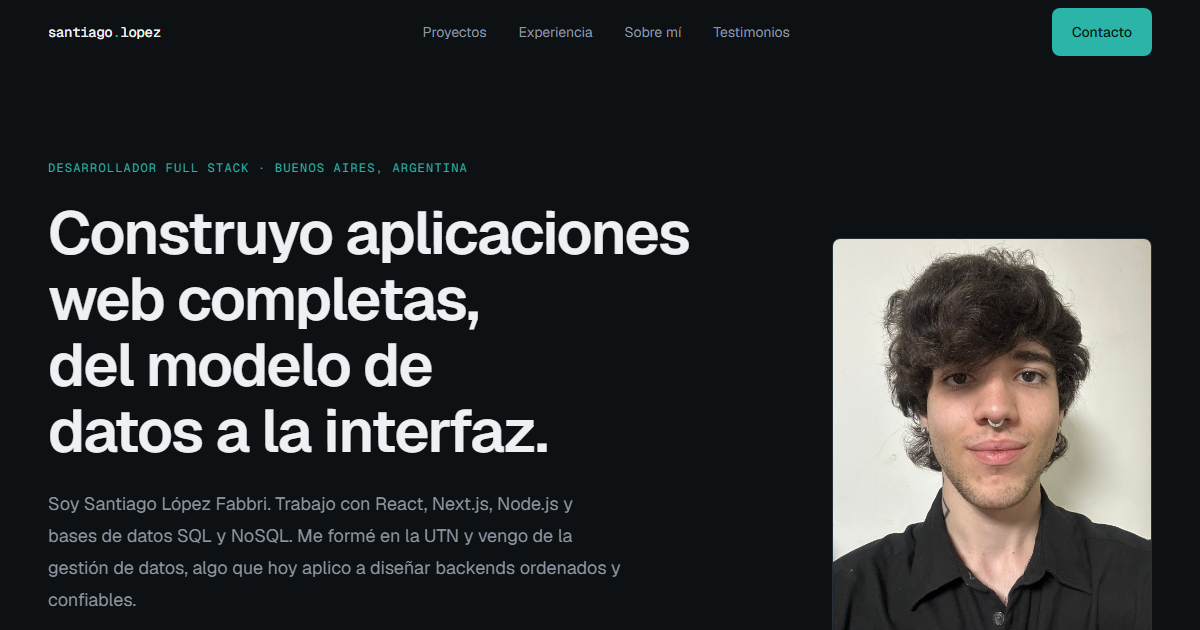
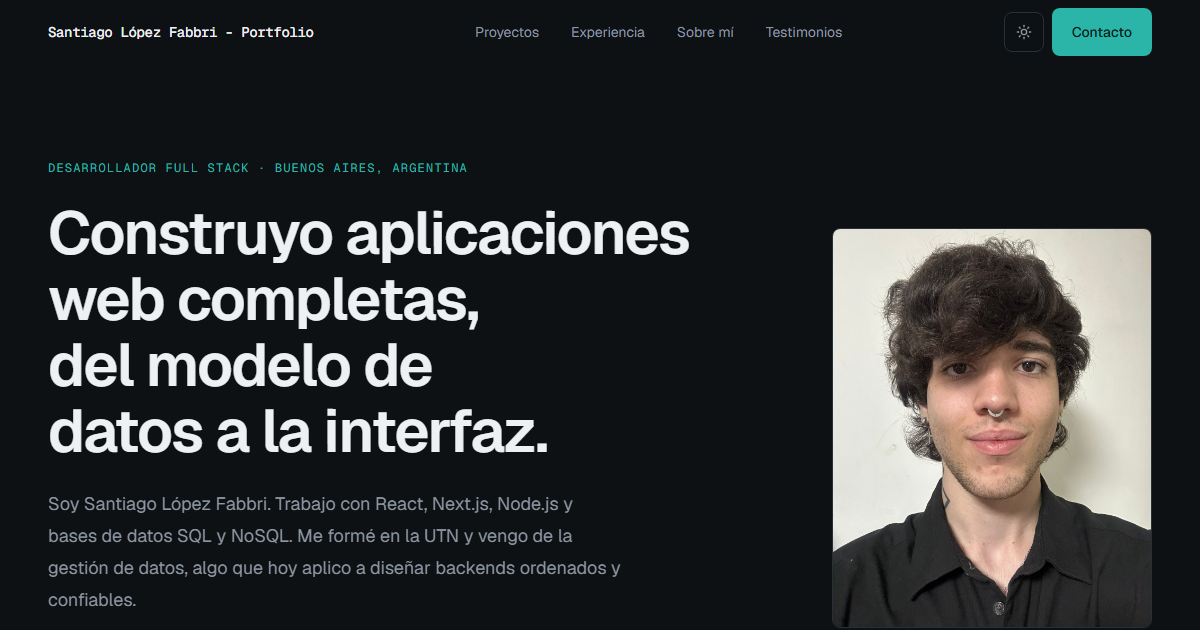
Proyectos con overlay, modo claro/oscuro, Hide y más textos decodificados
- Overlay en la imagen de cada proyecto con Ver sitio y Código (hover en desktop, toque en mobile)
- Modo claro/oscuro con transición circular desde el botón; respeta la preferencia del sistema
- Nuevo proyecto: Hide (Expo + Supabase), marcado como repo privado
- Decodificación en períodos, categorías del stack y etiquetas de contacto
- Capturas nuevas de Popcorn y Portfolio; imagen OG actualizada

diff --git a/src/sections/Proyectos.jsx b/src/sections/Proyectos.jsx
@@ -1,5 +1,7 @@
-import { ArrowUpRight, Github } from "lucide-react";
+import { ArrowUpRight, Github, Lock } from "lucide-react";
 import { useState } from "react";
+import { Button } from "@/components/Button";
+import { Decode } from "@/components/Decode";
 import { Reveal } from "@/components/Reveal";
 import { Section } from "@/components/Section";
 import { Tag } from "@/components/Tag";
@@ -12,8 +14,13 @@ const track = (e) => {
   e.currentTarget.style.setProperty("--y", `${e.clientY - r.top}px`);
 };
 
+const ext = { target: "_blank", rel: "noopener noreferrer" };
+
 const ProjectCard = ({ p, delay }) => {
   const [loaded, setLoaded] = useState(false);
+  const [open, setOpen] = useState(false); // en pantallas táctiles el overlay se abre tocando la imagen
+  const hasLinks = Boolean(p.demo || p.repo);
+
   return (
     <Reveal
       as="article"
@@ -22,7 +29,12 @@ const ProjectCard = ({ p, delay }) => {
       className="spotlight group relative flex flex-col overflow-hidden rounded-lg border border-border bg-surface focus-within:border-primary/40"
     >
       {/* El fondo hace de skeleton hasta que carga la imagen */}
-      <div className={`aspect-video overflow-hidden border-b border-border bg-surface-2 ${loaded ? "" : "animate-pulse"}`}>
+      <div
+        className={`group/img relative aspect-video overflow-hidden border-b border-border bg-surface-2 ${
+          loaded ? "" : "animate-pulse"
+        } ${hasLinks ? "cursor-pointer" : ""}`}
+        onClick={hasLinks ? () => setOpen((v) => !v) : undefined}
+      >
         <img
           src={p.image}
           alt={`Captura de ${p.title}`}
@@ -31,14 +43,47 @@ const ProjectCard = ({ p, delay }) => {
           height="720"
           onLoad={() => setLoaded(true)}
           onError={() => setLoaded(true)}
-          className={`h-full w-full object-cover object-top transition-[opacity,transform] duration-700 ease-[cubic-bezier(0.2,0.7,0.2,1)] group-hover:scale-[1.02] ${
+          className={`h-full w-full object-cover object-top transition-[opacity,transform,filter] duration-700 ease-[cubic-bezier(0.2,0.7,0.2,1)] group-hover:scale-[1.02] ${
             loaded ? "opacity-100" : "opacity-0"
-          }`}
+          } ${open ? "blur-[2px]" : "group-hover/img:blur-[2px]"}`}
         />
+
+        {hasLinks && (
+          <div
+            className={`absolute inset-0 flex items-center justify-center gap-4 bg-background/70 transition-opacity duration-300 group-hover/img:pointer-events-auto group-hover/img:opacity-100 focus-within:pointer-events-auto focus-within:opacity-100 ${
+              open ? "opacity-100" : "pointer-events-none opacity-0"
+            }`}
+          >
+            {p.demo && (
+              <Button href={p.demo} {...ext} className="group/btn translate-y-1 transition-[transform,background-color] duration-300 group-hover/img:translate-y-0">
+                Ver sitio
+                <ArrowUpRight size={16} className="transition-transform duration-300 group-hover/btn:translate-x-0.5 group-hover/btn:-translate-y-0.5" />
+              </Button>
+            )}
+            {p.repo && (
+              <Button
+                href={p.repo}
+                {...ext}
+                variant="secondary"
+                className="translate-y-1 bg-surface transition-[transform,background-color,border-color] delay-75 duration-300 group-hover/img:translate-y-0"
+              >
+                <Github size={16} /> Código
+              </Button>
+            )}
+          </div>
+        )}
       </div>
 
       <div className="flex flex-1 flex-col gap-4 p-6">
-        <h3 className="text-xl font-semibold tracking-tight">{p.title}</h3>
+        <div className="flex flex-wrap items-baseline justify-between gap-2">
+          <h3 className="text-xl font-semibold tracking-tight">{p.title}</h3>
+          {p.status && (
+            <span className="inline-flex items-center gap-2 font-mono text-xs text-muted-foreground">
+              <Lock size={12} aria-hidden="true" />
+              <Decode text={p.status} />
+            </span>
+          )}
+        </div>
         <p className="text-base leading-7 text-muted-foreground">{p.summary}</p>
         <ul className="space-y-2 text-sm leading-6">
           {p.highlights.map((h) => (
@@ -57,32 +102,24 @@ const ProjectCard = ({ p, delay }) => {
           ))}
         </ul>
 
-        <div className="mt-auto flex gap-6 pt-2 text-sm font-medium">
-          {p.demo && (
-            <a
-              href={p.demo}
-              target="_blank"
-              rel="noopener noreferrer"
-              className="group/link inline-flex items-center gap-1 text-primary hover:text-primary-hover"
-            >
-              <span className="link-draw">Ver sitio</span>
-              <ArrowUpRight
-                size={16}
-                className="transition-transform duration-300 group-hover/link:translate-x-0.5 group-hover/link:-translate-y-0.5"
-              />
-            </a>
-          )}
-          {p.repo && (
-            <a
-              href={p.repo}
-              target="_blank"
-              rel="noopener noreferrer"
-              className="inline-flex items-center gap-2 text-muted-foreground transition-colors hover:text-foreground"
-            >
-              <Github size={16} /> <span className="link-draw">Código</span>
-            </a>
-          )}
-        </div>
+        {hasLinks && (
+          <div className="mt-auto flex gap-6 pt-2 text-sm font-medium">
+            {p.demo && (
+              <a href={p.demo} {...ext} className="group/link inline-flex items-center gap-1 text-primary hover:text-primary-hover">
+                <span className="link-draw">Ver sitio</span>
+                <ArrowUpRight
+                  size={16}
+                  className="transition-transform duration-300 group-hover/link:translate-x-0.5 group-hover/link:-translate-y-0.5"
+                />
+              </a>
+            )}
+            {p.repo && (
+              <a href={p.repo} {...ext} className="inline-flex items-center gap-2 text-muted-foreground transition-colors hover:text-foreground">
+                <Github size={16} /> <span className="link-draw">Código</span>
+              </a>
+            )}
+          </div>
+        )}
       </div>
     </Reveal>
   );
@@ -104,8 +141,7 @@ export const Proyectos = () => {
       </div>
       <a
         href={github}
-        target="_blank"
-        rel="noopener noreferrer"
+        {...ext}
         className="group mt-12 inline-flex items-center gap-1 text-sm font-medium text-muted-foreground transition-colors hover:text-foreground"
       >
         <span className="link-draw">Más proyectos en GitHub</span>

diff --git a/src/components/ThemeToggle.jsx b/src/components/ThemeToggle.jsx
@@ -1,0 +1,48 @@
+import { Moon, Sun } from "lucide-react";
+import { useState } from "react";
+import { prefersReducedMotion } from "@/hooks/useInView";
+
+// El tema inicial lo fija el script de index.html antes de pintar (evita el parpadeo).
+const apply = (theme) => {
+  document.documentElement.dataset.theme = theme;
+  try {
+    localStorage.setItem("theme", theme);
+  } catch {
+    // Sin almacenamiento (modo privado): el tema dura solo esta visita.
+  }
+};
+
+export const ThemeToggle = () => {
+  const [theme, setTheme] = useState(() => document.documentElement.dataset.theme || "dark");
+
+  const toggle = (e) => {
+    const next = theme === "dark" ? "light" : "dark";
+    setTheme(next);
+    if (!document.startViewTransition || prefersReducedMotion()) return apply(next);
+
+    // Revela el tema nuevo en un círculo que crece desde el botón.
+    const { left, top, width, height } = e.currentTarget.getBoundingClientRect();
+    const x = left + width / 2;
+    const y = top + height / 2;
+    const r = Math.hypot(Math.max(x, innerWidth - x), Math.max(y, innerHeight - y));
+    document.startViewTransition(() => apply(next)).ready.then(() =>
+      document.documentElement.animate(
+        { clipPath: [`circle(0px at ${x}px ${y}px)`, `circle(${r}px at ${x}px ${y}px)`] },
+        { duration: 550, easing: "cubic-bezier(0.2, 0.7, 0.2, 1)", pseudoElement: "::view-transition-new(root)" },
+      ),
+    );
+  };
+
+  const label = theme === "dark" ? "Activar modo claro" : "Activar modo oscuro";
+  return (
+    <button
+      type="button"
+      onClick={toggle}
+      aria-label={label}
+      title={label}
+      className="flex size-10 shrink-0 items-center justify-center rounded-lg border border-border text-muted-foreground transition-colors hover:border-primary/60 hover:text-foreground"
+    >
+      {theme === "dark" ? <Sun size={16} /> : <Moon size={16} />}
+    </button>
+  );
+};

diff --git a/src/layout/Navbar.jsx b/src/layout/Navbar.jsx
@@ -2,6 +2,7 @@ import { Menu, X } from "lucide-react";
 import { useEffect, useRef, useState } from "react";
 import { Button } from "@/components/Button";
 import { Decode } from "@/components/Decode";
+import { ThemeToggle } from "@/components/ThemeToggle";
 import { perfil } from "@/data/portfolio";
 
 const navLinks = [
@@ -65,7 +66,7 @@ export const Navbar = () => {
       }`}
     >
       <nav className="mx-auto flex h-16 max-w-6xl items-center justify-between gap-4 px-4 sm:px-6" aria-label="Principal">
-        <a href="#top" className="truncate font-mono text-sm font-medium tracking-tight">
+        <a href="#top" className="truncate font-mono text-xs font-medium tracking-tight sm:text-sm">
           <Decode text={`${perfil.nombre} - Portfolio`} onHover />
         </a>
 
@@ -91,22 +92,25 @@ export const Navbar = () => {
           />
         </ul>
 
-        <div className="hidden lg:block">
-          <Button href="#contacto" className="h-10">
-            Contacto
-          </Button>
-        </div>
+        <div className="flex shrink-0 items-center gap-2">
+          <ThemeToggle />
+          <div className="hidden lg:block">
+            <Button href="#contacto" className="h-10">
+              Contacto
+            </Button>
+          </div>
 
-        <button
-          type="button"
-          className="-mr-2 shrink-0 p-2 lg:hidden"
+          <button
+            type="button"
+            className="-mr-2 shrink-0 p-2 lg:hidden"
           aria-label={open ? "Cerrar menú" : "Abrir menú"}
           aria-expanded={open}
           aria-controls="menu-mobile"
           onClick={() => setOpen((v) => !v)}
         >
-          {open ? <X size={20} /> : <Menu size={20} />}
-        </button>
+            {open ? <X size={20} /> : <Menu size={20} />}
+          </button>
+        </div>
       </nav>
 
       {open && (

diff --git a/src/data/portfolio.js b/src/data/portfolio.js
@@ -1,5 +1,6 @@
 // Todo el contenido del sitio vive acá. Para sumar un proyecto, agregá un objeto a `proyectos`
 // y su captura (16:9, .webp) en /public/projects. `demo` y `repo` son opcionales: si faltan, el link no se muestra.
+// `status` (opcional) es una etiqueta para proyectos sin link público, por ejemplo "En desarrollo · repo privado".
 
 export const perfil = {
   nombre: "Santiago López Fabbri",
@@ -28,6 +29,19 @@ export const proyectos = [
     image: "/projects/aprende-programando.webp",
     demo: "https://www.aprendeprogramando.portfolioslf.com",
     repo: "https://github.com/L0FA/aprende-programando",
+  },
+  {
+    title: "Hide",
+    summary:
+      "Red social anónima para iOS, Android y web: cada persona es solo un alias. Una única app hecha con Expo.",
+    highlights: [
+      "Chats 1 a 1 que se autodestruyen: el servidor fija la caducidad y un cron los borra",
+      "Historias de 24 h visibles solo para seguidores, con vistas opcionales",
+      "Seguridad en Postgres con RLS, cubierta por tests de privacidad automatizados",
+    ],
+    tags: ["Expo", "React Native", "Supabase", "PostgreSQL", "Expo Router", "Leaflet"],
+    image: "/projects/hide.webp",
+    status: "En desarrollo · repo privado",
   },
   {
     title: "L0FAChat",

diff --git a/src/sections/Experiencia.jsx b/src/sections/Experiencia.jsx
@@ -1,3 +1,4 @@
+import { Decode } from "@/components/Decode";
 import { useEffect, useRef } from "react";
 import { Section } from "@/components/Section";
 import { Tag } from "@/components/Tag";
@@ -53,9 +54,11 @@ export const Experiencia = () => {
               aria-hidden="true"
               className="exp-dot absolute top-10 left-0 size-2 -translate-x-1/2 rounded-full border border-border bg-background transition-colors duration-500"
             />
-            <p className="font-mono text-sm text-muted-foreground transition-colors duration-300 group-hover:text-primary">
-              {e.period}
-            </p>
+            <Decode
+              as="p"
+              text={e.period}
+              className="font-mono text-sm text-muted-foreground transition-colors duration-300 group-hover:text-primary"
+            />
             <div>
               <h3 className="text-xl font-semibold tracking-tight">{e.role}</h3>
               <p className="mt-1 text-base text-primary">{e.company}</p>

diff --git a/src/index.css b/src/index.css
@@ -18,6 +18,29 @@
   --color-danger: #f87171;
 }
 
+/* Tema claro: mismos tokens, otros valores. El teal se oscurece para mantener contraste AA sobre blanco. */
+:root[data-theme="light"] {
+  --color-background: #f6f7f8;
+  --color-surface: #ffffff;
+  --color-surface-2: #eef1f3;
+  --color-border: #dce1e5;
+  --color-foreground: #0f1418;
+  --color-muted-foreground: #5a6570;
+  --color-primary: #0d7a71;
+  --color-primary-hover: #0a6a62;
+  --color-primary-foreground: #ffffff;
+  --color-success: #15803d;
+  --color-danger: #b91c1c;
+  color-scheme: light;
+}
+
+/* Cambio de tema: el tema nuevo se revela en círculo desde el botón (lo anima ThemeToggle.jsx). */
+::view-transition-old(root),
+::view-transition-new(root) {
+  animation: none;
+  mix-blend-mode: normal;
+}
+
 @layer base {
   html {
     scroll-behavior: smooth;

diff --git a/src/sections/Contacto.jsx b/src/sections/Contacto.jsx
@@ -1,3 +1,4 @@
+import { Decode } from "@/components/Decode";
 import { AlertCircle, CheckCircle2, Loader2, Send } from "lucide-react";
 import { useState } from "react";
 import emailjs from "@emailjs/browser";
@@ -47,7 +48,7 @@ export const Contacto = () => {
         <dl className="space-y-6">
           {contactos.map((c) => (
             <div key={c.label}>
-              <dt className="font-mono text-xs uppercase tracking-widest text-muted-foreground">{c.label}</dt>
+              <Decode as="dt" text={c.label} className="font-mono text-xs uppercase tracking-widest text-muted-foreground" />
               <dd className="mt-2 break-words text-base">
                 {c.href ? (
                   <a

diff --git a/index.html b/index.html
@@ -10,6 +10,15 @@
     />
     <link rel="canonical" href="https://portfolioslf.com/" />
     <meta name="theme-color" content="#0d1114" />
+    <script>
+      // Tema antes del primer pintado: elección guardada o, si no hay, la del sistema.
+      (function () {
+        var t;
+        try { t = localStorage.getItem("theme"); } catch (e) {}
+        if (t !== "light" && t !== "dark") t = matchMedia("(prefers-color-scheme: light)").matches ? "light" : "dark";
+        document.documentElement.dataset.theme = t;
+      })();
+    </script>
     <link rel="icon" type="image/svg+xml" href="/favicon.svg" />
     <link rel="apple-touch-icon" href="/apple-touch-icon.png" />
 

diff --git a/src/sections/Acerca_De.jsx b/src/sections/Acerca_De.jsx
@@ -1,3 +1,4 @@
+import { Decode } from "@/components/Decode";
 import { Section } from "@/components/Section";
 import { stack } from "@/data/portfolio";
 
@@ -23,7 +24,7 @@ export const Acerca_De = () => (
       <dl className="grid gap-8 sm:grid-cols-2">
         {stack.map((s) => (
           <div key={s.area}>
-            <dt className="font-mono text-xs uppercase tracking-widest text-muted-foreground">{s.area}</dt>
+            <Decode as="dt" text={s.area} className="font-mono text-xs uppercase tracking-widest text-muted-foreground" />
             <dd className="mt-4">
               <ul className="space-y-2 text-base">
                 {s.items.map((i) => (

diff --git a/README.md b/README.md
@@ -39,10 +39,11 @@ Todo el contenido (proyectos, experiencia, stack, testimonios, redes) está en `
   image: "/projects/nombre.webp",
   demo: "https://...",   // opcional
   repo: "https://...",   // opcional
+  status: "En desarrollo · repo privado", // opcional, para proyectos sin link público
 }
 ```
 
-Si `demo` o `repo` no existen, el link no se muestra.
+Si `demo` o `repo` no existen, el link no se muestra. Con al menos uno de los dos, al pasar el mouse (o tocar la imagen en mobile) aparece el overlay con los botones.
 
 ## Estructura
 
